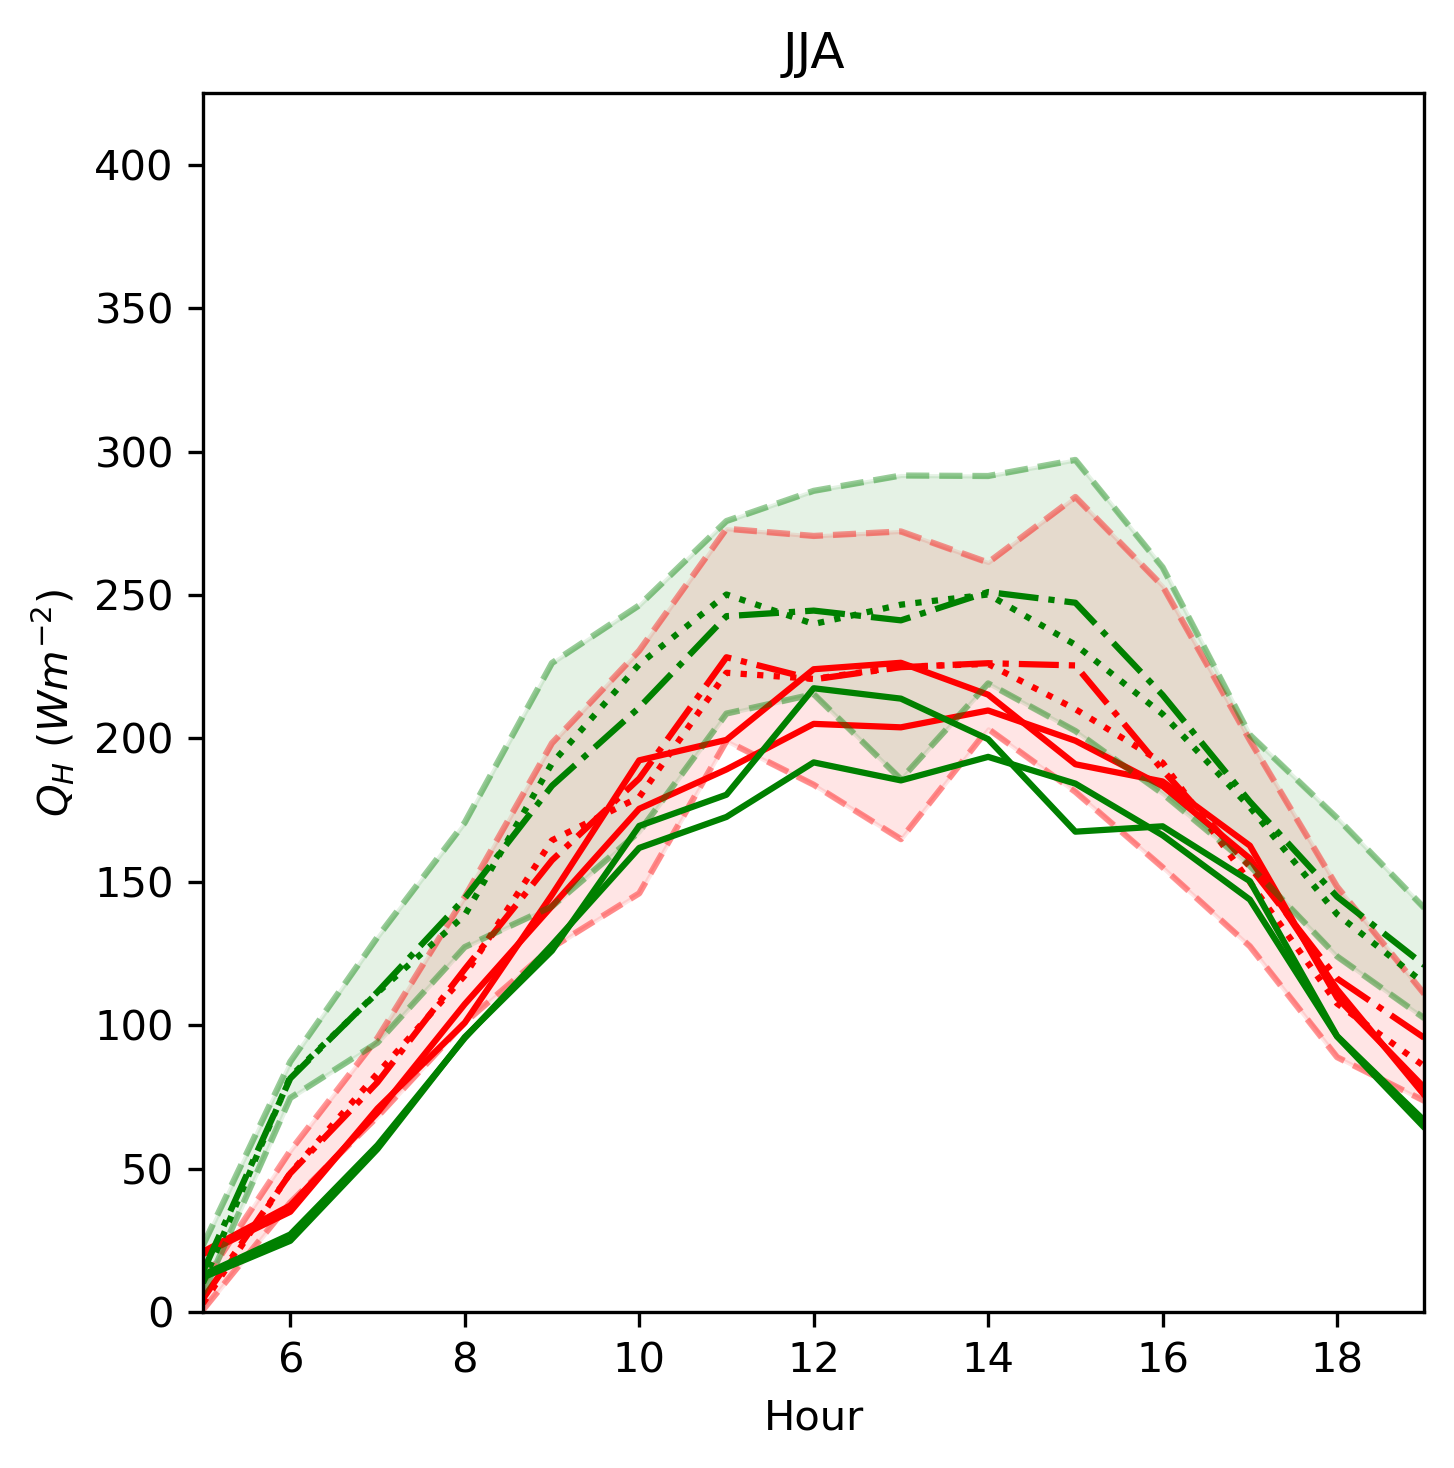
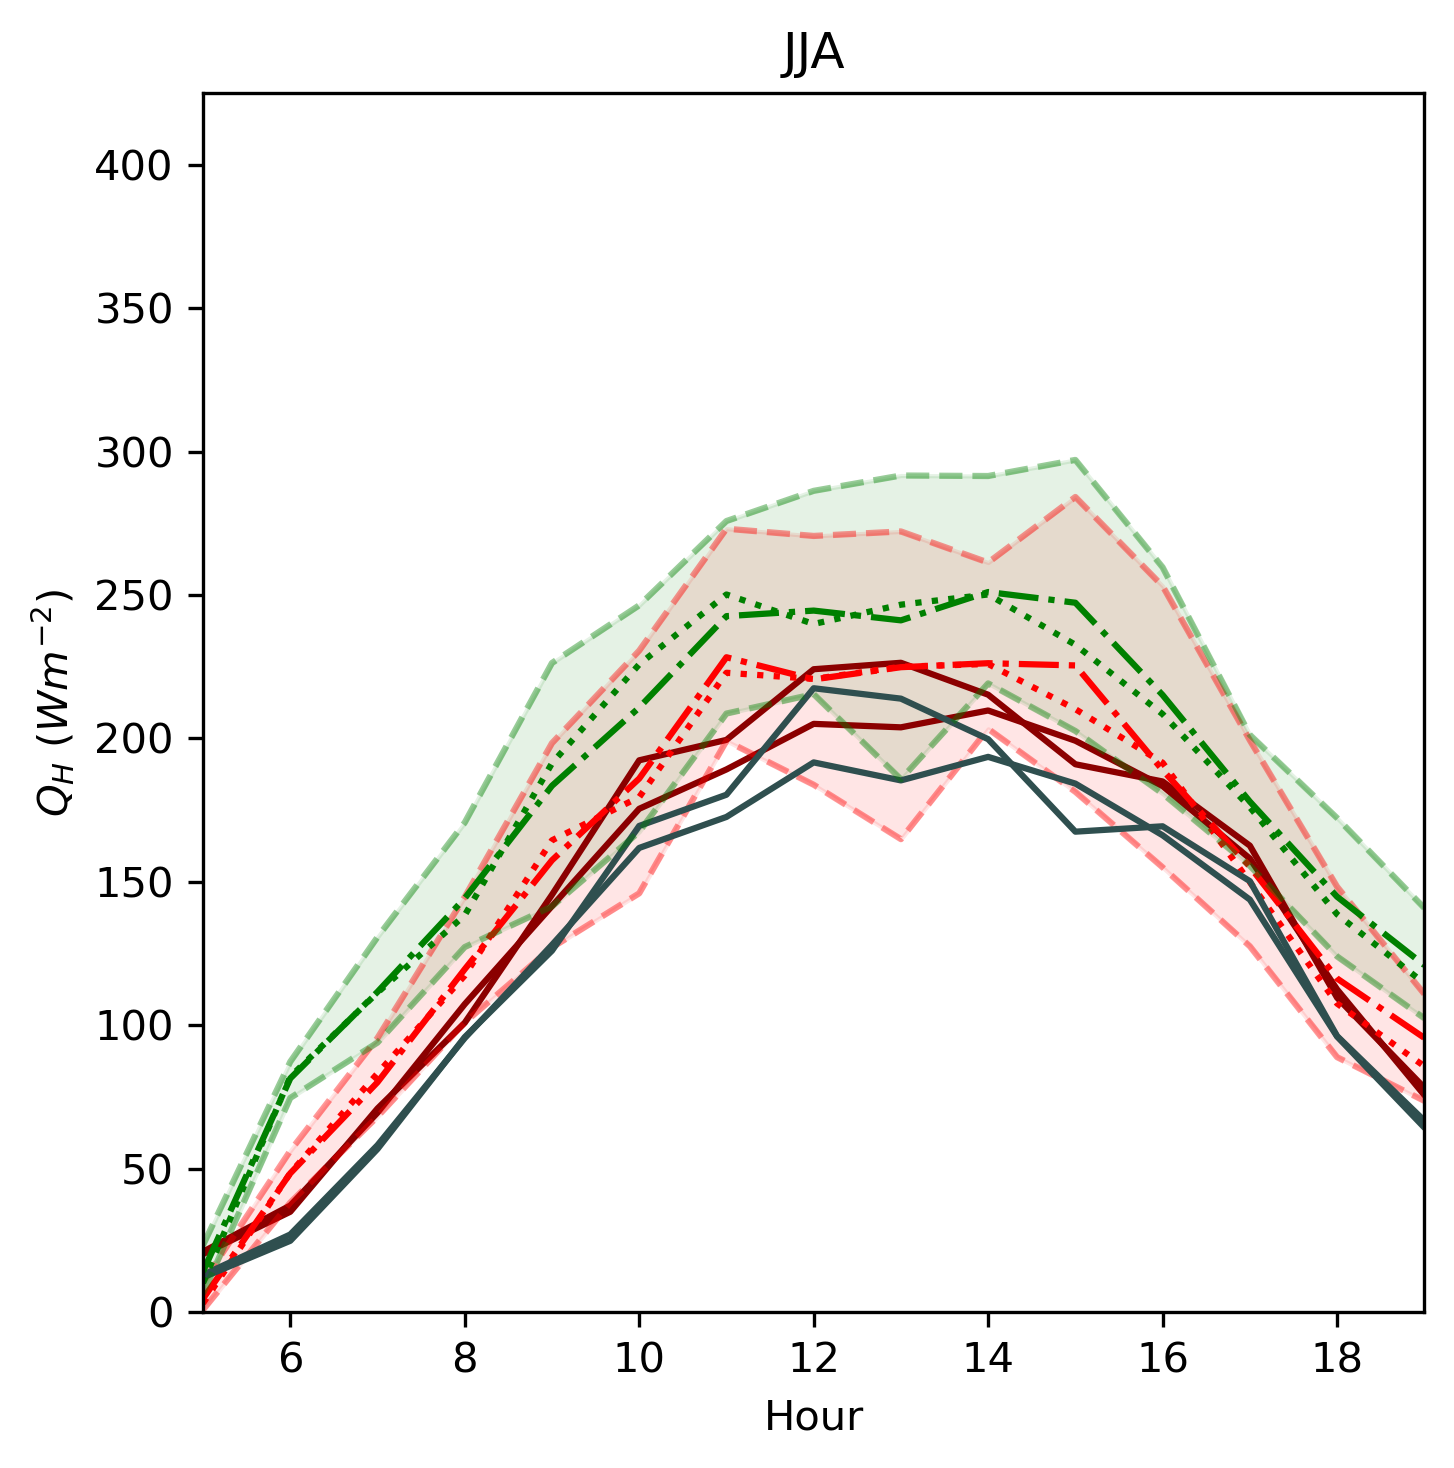
change ukv colours

Changed region(s): [[0.1547, 0.4292, 0.9904, 0.8583]]

diff --git a/scint_plots/scint_seasonality/seasonality_funs.py b/scint_plots/scint_seasonality/seasonality_funs.py
@@ -19,6 +19,8 @@ def plot_season_one_panel(season_dict, season_dict_UKV, save_path, variable='QH'
 
     all_seasons = ['DJF', 'MAM', 'JJA', 'SON']
 
+    ukv_colours = {'BCT_IMU': 'darkred', 'SCT_SWT': 'darkmagenta', 'IMU_BTT': 'darkslategrey', 'BTT_BCT': 'navy'}
+
     linestyle_dict = {'median': ':', 'mean': '-.', 'IQR': '--', 'UKV_median': '-', 'UKV_mean': '-'}
 
     for season in all_seasons:
@@ -43,8 +45,8 @@ def plot_season_one_panel(season_dict, season_dict_UKV, save_path, variable='QH'
                 IQR_dict_UKV = IQR_path_dict_UKV['BL_H_' + path_num_str]
                 pair_id = look_up.scint_path_numbers[int(path.split('_')[-1])]
 
-                ax.plot(IQR_dict_UKV['mean'].index, IQR_dict_UKV['mean'], color=colour_dict[pair_id],linestyle=linestyle_dict['UKV_mean'])
-                ax.plot(IQR_dict_UKV['median'].index, IQR_dict_UKV['median'], color=colour_dict[pair_id],linestyle=linestyle_dict['UKV_median'])
+                ax.plot(IQR_dict_UKV['mean'].index, IQR_dict_UKV['mean'], color=ukv_colours[pair_id],linestyle=linestyle_dict['UKV_mean'])
+                ax.plot(IQR_dict_UKV['median'].index, IQR_dict_UKV['median'], color=ukv_colours[pair_id],linestyle=linestyle_dict['UKV_median'])
 
                 ax.plot(IQR_dict['mean'].index, IQR_dict['mean'], color=colour_dict[pair_id], linestyle=linestyle_dict['mean'])
                 ax.plot(IQR_dict['median'].index, IQR_dict['median'], color=colour_dict[pair_id], linestyle=linestyle_dict['median'])
